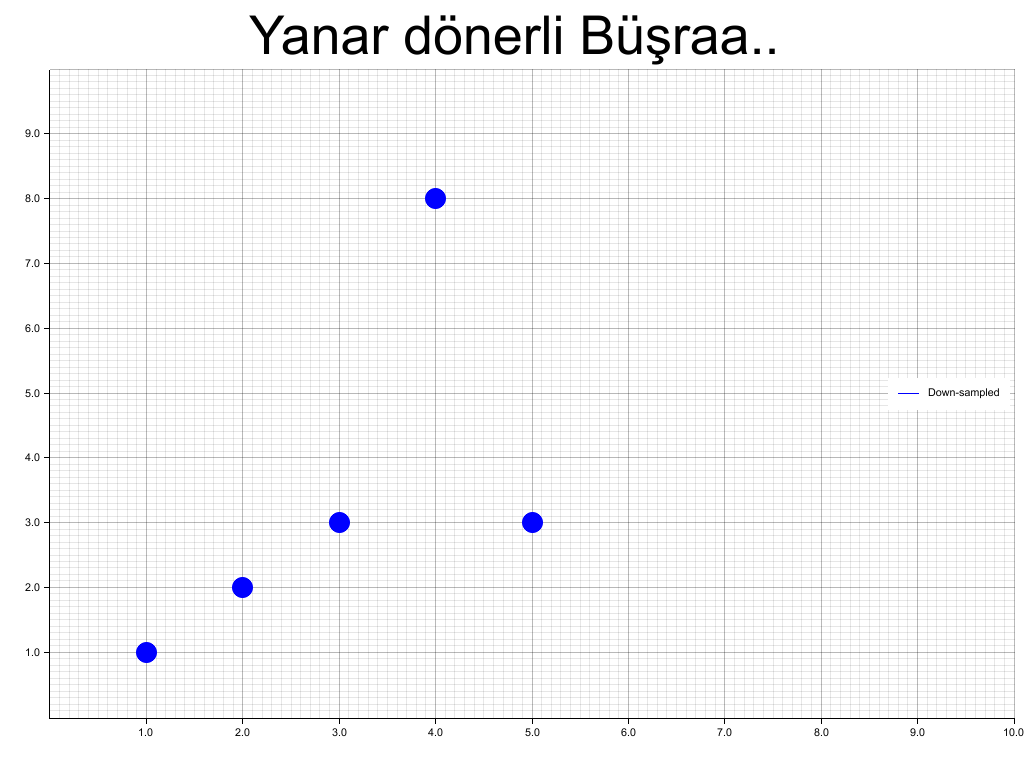
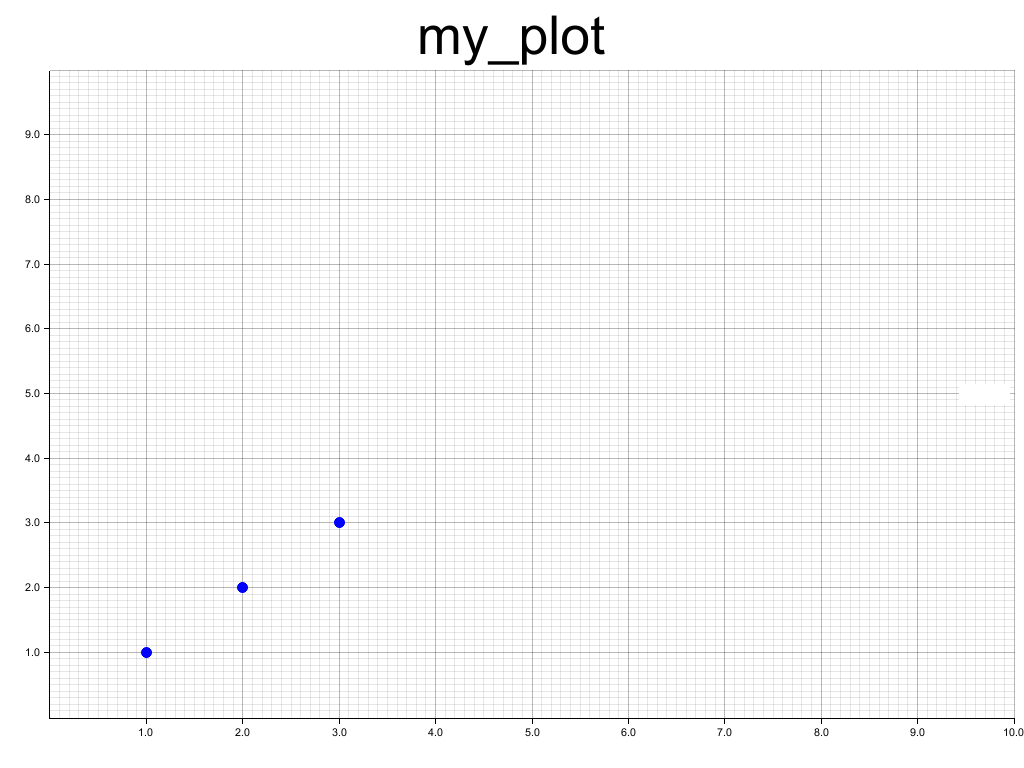
draw_function() added. range() added but cannot use now. need to convert vector to tupple or some other iterable.

diff --git a/src/lib.rs b/src/lib.rs
@@ -19,23 +19,6 @@ pub struct Plot<'a, 'b, T, B> where
     chart: Option<ChartBuilder<'a, 'b, T>>,
 }
 
-<<<<<<< HEAD
-// impl<'a, 'b, T: plotters::drawing::backend::DrawingBackend, B: plotters::coord::CoordTranslate> Plot<'a, 'b, T, B> {
-//     pub fn new() -> Plot<'a, 'b, T, B> {
-//         Plot {root: BitMapBackend::new("kym.png", (1024, 768)).into_drawing_area(),
-//               data: vec![],
-//               chart: None}
-//     }
-// }
-
-pub fn plot(data: &Vec<(f64,f64)>) -> Result<(), Box<dyn std::error::Error>> {
-
-    let mut data_copy: Vec<(f64,f64)> = vec![]; 
-    for &x in data.iter() {
-        data_copy.push(x);
-    }
-    
-=======
 pub fn plot(data: &Vec<(f64,f64)>) -> Result<(), Box<dyn std::error::Error>> {
 
     let mut data_copy: Vec<(f64,f64)> = vec![];
@@ -43,7 +26,6 @@ pub fn plot(data: &Vec<(f64,f64)>) -> Result<(), Box<dyn std::error::Error>> {
         data_copy.push(x);
     } 
 
->>>>>>> d0d2c8bb2229ff23c4d340b1eadd68a81420d20e
     let root = BitMapBackend::new("kym-plot.png", (1024, 768)).into_drawing_area();
     root.fill(&WHITE)?;
 
@@ -56,11 +38,7 @@ pub fn plot(data: &Vec<(f64,f64)>) -> Result<(), Box<dyn std::error::Error>> {
 
     chart.configure_mesh().draw()?;
 
-<<<<<<< HEAD
-    chart.draw_series(LineSeries::new(data_copy, &GREEN.mix(10.0)))?
-=======
     chart.draw_series(LineSeries::new(data_copy, &GREEN.mix(20.0)))?
->>>>>>> d0d2c8bb2229ff23c4d340b1eadd68a81420d20e
          .label("Raw Data")
          .legend(|(x,y)| PathElement::new(vec![(x,y), (x+20,y)], &GREEN));
 
@@ -73,21 +51,15 @@ pub fn plot(data: &Vec<(f64,f64)>) -> Result<(), Box<dyn std::error::Error>> {
 
 pub fn scatter(data: &Vec<(f64,f64)>) -> Result<(), Box<dyn std::error::Error>> {
 
-<<<<<<< HEAD
-=======
     let mut data_copy: Vec<(f64,f64)> = vec![];
     for &x in data.iter() {
         data_copy.push(x);
     } 
 
->>>>>>> d0d2c8bb2229ff23c4d340b1eadd68a81420d20e
     let root = BitMapBackend::new("kym-scatter.png", (1024, 768)).into_drawing_area();
     root.fill(&WHITE)?;
 
     let mut chart = ChartBuilder::on(&root)
-<<<<<<< HEAD
-        .caption("Yanar dönerli Büşraa..", ("sans-serif", 60))
-=======
         .caption("my_plot", ("sans-serif", 60))
         .margin(10)
         .set_label_area_size(LabelAreaPosition::Left, 40)
@@ -151,7 +123,6 @@ pub fn scatter_error2(data: &Vec<(f64,f64,f64)>) -> Result<(), Box<dyn std::erro
 
     let mut chart = ChartBuilder::on(&root)
         .caption("my_plot", ("sans-serif", 60))
->>>>>>> d0d2c8bb2229ff23c4d340b1eadd68a81420d20e
         .margin(10)
         .set_label_area_size(LabelAreaPosition::Left, 40)
         .set_label_area_size(LabelAreaPosition::Bottom, 40)
@@ -159,16 +130,6 @@ pub fn scatter_error2(data: &Vec<(f64,f64,f64)>) -> Result<(), Box<dyn std::erro
 
     chart.configure_mesh().draw()?;
 
-<<<<<<< HEAD
-    chart
-        .draw_series(
-            data.iter().map(|(x, y)| {
-                ErrorBar::new_vertical(*x, *y, *y, *y, BLUE.filled(), 20)
-            }),
-        )?
-        .label("Down-sampled")
-        .legend(|(x, y)| PathElement::new(vec![(x, y), (x + 20, y)], &BLUE));
-=======
     chart.draw_series(data_copy.iter().map(|(x, y, y_err)| {
                 ErrorBar::new_vertical(*x, (*y-*y_err), *y, (*y+*y_err), BLUE.filled(), 10)
             }),
@@ -211,11 +172,56 @@ pub fn scatter_error3(data: &Vec<(f64,f64,f64,f64)>) -> Result<(), Box<dyn std::
     chart.draw_series(LineSeries::new(vec![(0.0,0.0), (0.0,0.0)], &BLUE.mix(100.0)))?
         .label("Data")
         .legend(|(x,y)| PathElement::new(vec![(x,y), (x+20,y)], &BLUE));
->>>>>>> d0d2c8bb2229ff23c4d340b1eadd68a81420d20e
 
     chart.configure_series_labels()
          .background_style(WHITE.filled())
          .draw()?;
+
+    Ok(())
+}
+
+pub fn range(min_val: f64, max_val: f64, n: usize) -> Vec<f64> {
+    let diff = max_val - min_val;
+    let step_size = diff / (n as f64);
+    let mut range_vec: Vec<f64> = vec![];
+    let x_range = (1..=n).map(|i| i as f64 * step_size + min_val);
+    for i in x_range {
+        range_vec.push(i);
+    }
+    range_vec
+}
+
+pub fn draw_function(f: &dyn Fn(f64) -> f64, range_x: (f64,f64), range_y: (f64,f64)) -> Result<(), Box<dyn std::error::Error>> {
+    let root = BitMapBackend::new("draw_function.png", (640, 480)).into_drawing_area();
+    root.fill(&WHITE)?;
+    let mut chart = ChartBuilder::on(&root)
+        .caption("y=x^2", ("sans-serif", 50).into_font())
+        .margin(5)
+        .x_label_area_size(30)
+        .y_label_area_size(30)
+        .build_ranged(range_x.0..range_x.1, range_y.0..range_y.1)?;
+
+    chart.configure_mesh().draw()?;
+
+    let n: usize = 100;
+    let diff = range_x.1 - range_x.0;
+    let step = diff / (n as f64);
+    let x_range = (1..=n).map(|i| i as f64 * step + range_x.0);
+    //let x_range = range(range_x.0, range_x.1, 100);
+
+    chart
+        .draw_series(LineSeries::new(
+            x_range.map(|x| (x, f(x))),
+            &RED,
+        ))?
+        .label("y = x^2")
+        .legend(|(x, y)| PathElement::new(vec![(x, y), (x + 20, y)], &RED));
+
+    chart
+        .configure_series_labels()
+        .background_style(&WHITE.mix(0.8))
+        .border_style(&BLACK)
+        .draw()?;
 
     Ok(())
 }

diff --git a/src/main.rs b/src/main.rs
@@ -5,7 +5,7 @@ use lib::scatter_error;
 use lib::scatter_error2;
 use lib::scatter_error3;
 
-use lib::plot;
+use lib::draw_function;
 
 use plotters::prelude::*;
 
@@ -19,14 +19,10 @@ use num_traits::sign::Signed;
 
 fn main() -> Result<(), Box<dyn std::error::Error>> {
 
-<<<<<<< HEAD
-    let data = vec![(1.0, 1.0), (2.0, 2.0), (3.0, 3.0), (4.0, 8.0), (5.0, 3.0)];
-=======
     let data = vec![(1.0, 1.0), (2.0, 2.0), (3.0, 3.0)];
     let data_err = vec![(1.0, 0.8, 1.0, 1.2), (2.0, 1.8, 2.0, 2.2), (3.0, 2.8, 3.0, 3.2)];
     let data_err2 = vec![(1.0, 1.0, 0.3), (2.0, 2.0, 0.6), (3.0, 3.0, 0.9)];
     let data_err3 = vec![(1.0, 0.1, 1.0, 0.1), (2.0, 0.2, 2.0, 0.2), (3.0, 0.3, 3.0, 0.3)];
->>>>>>> d0d2c8bb2229ff23c4d340b1eadd68a81420d20e
 
     // let root = BitMapBackend::new("kym.png", (1024, 768)).into_drawing_area();
     // root.fill(&WHITE);
@@ -48,17 +44,18 @@ fn main() -> Result<(), Box<dyn std::error::Error>> {
     //      .background_style(WHITE.filled())
     //      .draw()?;
 
-<<<<<<< HEAD
-    plot(&data);
-    scatter(&data);
-=======
     scatter(&data);
     plot(&data);
 
     scatter_error(&data_err);
     scatter_error2(&data_err2);
     scatter_error3(&data_err3);
->>>>>>> d0d2c8bb2229ff23c4d340b1eadd68a81420d20e
+
+    fn square(x: f64) -> f64 {
+        x*x
+    }
+
+    draw_function(&square, (-1.5,3.2), (0.0,12.0));
 
     // let data = generate_random_data();
     // let down_sampled = down_sample(&data[..]);
